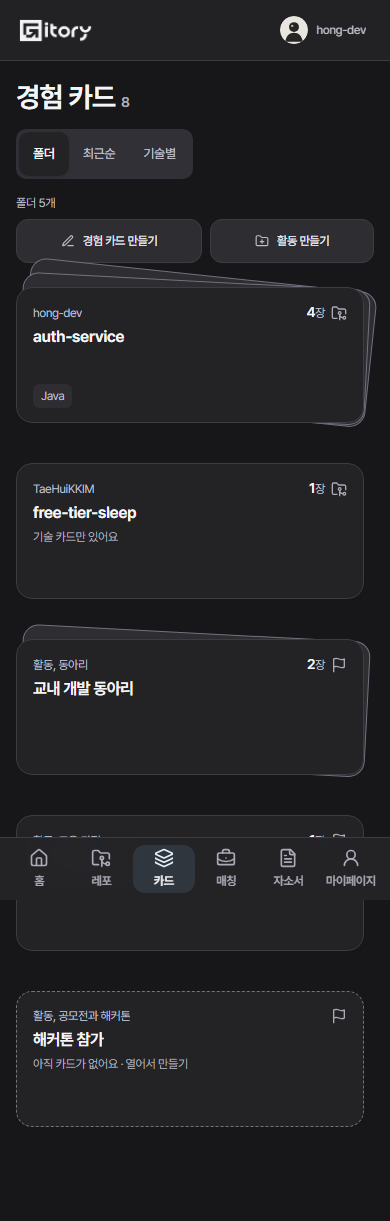
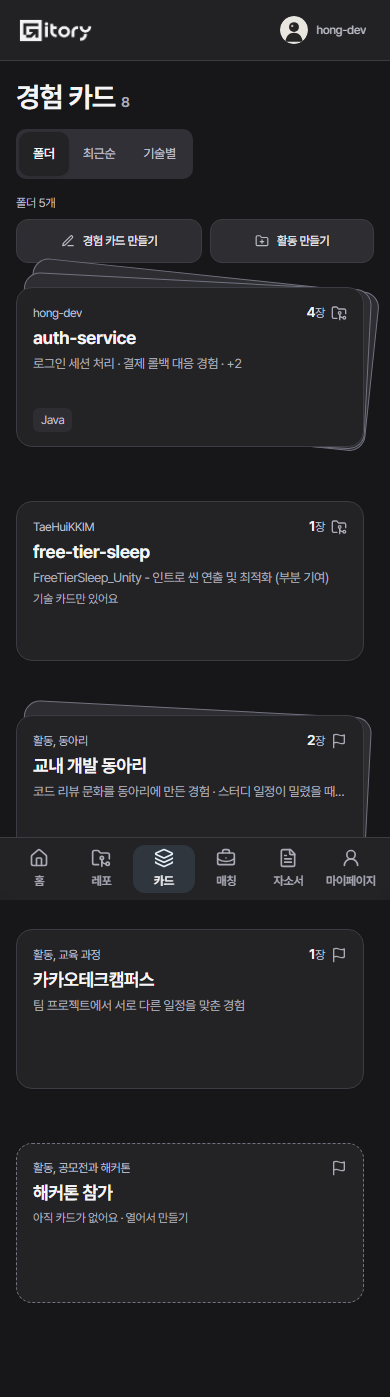
test: 폴더 격자·미리 보기 시험과 화면 사진, 설명 문서 갱신

diff --git a/frontend/src/test/card-folders-522.test.ts b/frontend/src/test/card-folders-522.test.ts
@@ -1,7 +1,7 @@
 import { describe, expect, it } from 'vitest';
 import { Activity } from '@/api/activities';
 import { CardSummary } from '@/api/schemas';
-import { buildFolders, deckLayers, folderLabel, folderNote, topTechs } from '@/lib/cardFolders';
+import { buildFolders, deckLayers, folderLabel, folderNote, folderPeek, topTechs } from '@/lib/cardFolders';
 
 const card = (id: string, over: Record<string, unknown> = {}) => CardSummary.parse({
   id, kind: 'TECH', status: 'DRAFT', title: id, versionNo: 1, areas: [], techs: [], repo: null, activity: null,
@@ -93,5 +93,15 @@ describe('경험 카드 폴더 묶기 (#522)', () => {
 describe('폴더 앞판 뒤로 겹쳐 보이는 카드 수 (#522)', () => {
   it('한 장은 겹치지 않고 둘은 한 겹, 셋 이상은 두 겹으로 멈춘다', () => {
     expect([0, 1, 2, 3, 4, 8, 100].map(deckLayers)).toEqual([0, 0, 1, 2, 2, 2, 2]);
+  });
+});
+
+describe('폴더 앞판 미리 보기 한 줄 (#758)', () => {
+  const titled = (...titles: string[]) => ({ cards: titles.map((title, i) => card(`p${i}`, { title })) });
+  it('빈 폴더는 없고, 한두 장은 제목만, 세 장 이상은 앞의 두 제목 뒤에 남은 장 수를 붙인다', () => {
+    expect(folderPeek(titled())).toBeNull();
+    expect(folderPeek(titled('로그인 세션 처리'))).toBe('로그인 세션 처리');
+    expect(folderPeek(titled('로그인 세션 처리', '결제 롤백 대응'))).toBe('로그인 세션 처리 · 결제 롤백 대응');
+    expect(folderPeek(titled('로그인 세션 처리', '결제 롤백 대응', 'c', 'd', 'e'))).toBe('로그인 세션 처리 · 결제 롤백 대응 · +3');
   });
 });

diff --git a/frontend/src/test/activities-pages-522.test.tsx b/frontend/src/test/activities-pages-522.test.tsx
@@ -57,6 +57,10 @@ describe('경험 카드 목록의 폴더 보기 (#522)', () => {
     // 장 수는 종류 아이콘 옆 작은 글이고, 빈 폴더에는 없다(0장 대신 안내 한 줄이 말한다)
     expect(auth.querySelector('.folder__head .folder__count')).toHaveTextContent(/^4장$/);
     expect(screen.getByRole('link', { name: FOLDERS.contest }).querySelector('.folder__count')).toBeNull();
+    // 이름 아래 미리 보기 한 줄: 최근 카드 두 장의 제목과 남은 장 수. 빈 폴더에는 없고, 링크 이름에도 들어가지 않는다(위 FOLDERS 그대로)
+    expect(auth.querySelector('.folder__peek')).toHaveTextContent(/^[^·]+ · [^·]+ · \+2$/);
+    expect(screen.getByRole('link', { name: FOLDERS.fts }).querySelector('.folder__peek')).toHaveTextContent(/^FreeTierSleep_Unity - 인트로 씬 연출 및 최적화 \(부분 기여\)$/);
+    expect(screen.getByRole('link', { name: FOLDERS.contest }).querySelector('.folder__peek')).toBeNull();
     expect(auth.querySelector('.folder__back')).toHaveAttribute('aria-hidden', 'true');
     // 뒤로 겹쳐 보이는 카드는 장 수를 따르고(4장 두 겹, 2장 한 겹, 1장 없음), 카드가 없는 폴더만 점선(data-empty)이다
     expect(auth).toHaveAttribute('data-deck', '2');

diff --git a/frontend/docs/2026-10-31-ACTIVITIES_AND_FOLDERS.md b/frontend/docs/2026-10-31-ACTIVITIES_AND_FOLDERS.md
@@ -20,14 +20,16 @@ BE #477(활동 API, 계약 #475 1·2절)이 머지됐는데 화면이 없었다.
 
 시안(성준 님, 이슈 댓글)을 베끼지 않고 앱의 토큰과 규칙에 맞췄다.
 
-- 한 폴더 = 링크 하나. 키보드로 열고, 접근성 이름에 소유자·이름·장 수·안내 한 줄·기술이 모두 들어간다(`folderLabel`). 뒤에 겹친 카드와 종류 아이콘은 장식이라 접근성 트리에서 뺀다.
+- 한 폴더 = 링크 하나. 키보드로 열고, 접근성 이름에 소유자·이름·장 수·안내 한 줄·기술이 들어간다(`folderLabel`). 미리 보기 줄은 폴더 안 카드 제목이라 이름에 넣지 않았다(읽어 주면 이름만 길어진다). 뒤에 겹친 카드와 종류 아이콘은 장식이라 접근성 트리에서 뺀다.
 - 모양은 부채꼴 카드 묶음이다. 맨 위 카드 한 장(경험 카드 타일과 같은 바탕·테두리·모서리)이 보이고, 뒤로 겹친 카드는 아래쪽 오른편(`transform-origin: 85% 100%`)을 축으로 3°·6° 돌아가 모서리가 위와 오른쪽으로 삐져나온다. 겹친 카드 수는 장 수를 따른다(`deckLayers`: 1장은 겹침 없음, 2장은 한 겹 3°, 3장 이상은 두 겹 3°·6°). 카드가 한 장도 없는 폴더(활동만)는 점선 테두리다. 첫 줄 오른쪽 작은 아이콘이 레포(`FolderGit2`), 활동(`Flag`), 직접 쓴 카드(`PenLine`)를 가른다.
 - 겹친 카드가 삐져나올 자리(위 10px, 오른쪽 10px, 아래 8px)는 겹침이 없는 폴더에도 똑같이 비워 둔다. 장 수에 따라 맨 위 카드 크기가 달라지면 한 줄의 폴더 높이가 들쭉날쭉해진다.
 - 색은 토큰만. 맨 위 카드 `--bg-surface` + `--border-default`, 뒤에 겹친 카드 `--bg-subtle` + `--border-strong`. 올리거나 키보드로 닿으면 모든 카드 테두리가 `--border-selected`로 바뀌고, 부채꼴이 4°·7°로 조금 더 벌어진다(0.15초, 움직임 줄이기 설정이면 바로). 폴더 자체의 자리와 크기는 그대로다. 다크 모드는 같은 토큰이고, 폴더는 모두 같은 색 하나다.
-- 첫 줄은 레포면 소유자, 활동이면 `활동, 종류`. 이름은 두 줄까지.
+- 첫 줄은 레포면 소유자, 활동이면 `활동, 종류`. 이름은 18px, 두 줄까지. 맨 위 카드는 높이 160px 부터다.
+- 이름 바로 아래 작은 회색 한 줄(`folderPeek`, 13px)이 폴더 안 최근 카드 두 장의 제목을 보여 준다. 더 있으면 남은 장 수를 붙이고(`로그인 세션 처리 · 결제 롤백 대응 경험 · +2`), 넘치면 말줄임표로 자른다. 빈 폴더에는 없다(#758).
 - 장 수는 첫 줄 오른쪽 종류 아이콘 옆에 작게(`4장`) 적는다. 서버가 준 카드를 센 전체 장 수다(기술 카드와 경험 카드 합). 겹침이 이미 많고 적음을 보여 주므로, 숫자가 이름보다 먼저 보이지 않게 작게 두었다. 카드가 한 장도 없는 폴더에는 적지 않는다. 아래는 가장 많은 카드에 붙은 기술 둘이고, 카드에 태그가 없으면 비어 있다(지어내지 않는다).
-- 이름 아래 안내 한 줄(`folderNote`)은 둘뿐이다. 카드가 한 장도 없는 폴더는 `아직 카드가 없어요 · 열어서 만들기`, 정성 카드(경험 카드)가 한 장도 없는 레포·활동 폴더는 `기술 카드만 있어요`. 둘 다 아니면 적지 않는다. 시안에서도 `2장`이면서 경험 카드가 없는 레포가 있어, 이 글은 "전체 0장"이 아니라 "경험 카드를 더 쓸 곳"이라는 뜻으로 읽었다.
-- 격자는 `repeat(auto-fill, minmax(min(300px, 100%), 1fr))`. 1440에서는 3열, 390과 320에서는 한 줄에 폴더 하나. 타일이 커야 이름이 주인공이 되고 부채꼴 겹침이 어지럽지 않다.
+- 미리 보기 아래 안내 한 줄(`folderNote`)은 둘뿐이다. 카드가 한 장도 없는 폴더는 `아직 카드가 없어요 · 열어서 만들기`, 정성 카드(경험 카드)가 한 장도 없는 레포·활동 폴더는 `기술 카드만 있어요`. 둘 다 아니면 적지 않는다. 시안에서도 `2장`이면서 경험 카드가 없는 레포가 있어, 이 글은 "전체 0장"이 아니라 "경험 카드를 더 쓸 곳"이라는 뜻으로 읽었다.
+- 격자는 `repeat(auto-fill, minmax(min(340px, 100%), 1fr))`에 `max-width: 1200px`, 줄 간격 36px·칸 간격 20px. 한 줄에 셋까지다(1440은 365px 셋, 1920 이상도 격자가 1,200px 에서 멈춰 387px 셋이고 왼쪽에 붙는다). 중간 폭은 둘, 390과 320은 하나. 타일이 커야 이름이 주인공이 되고 부채꼴 겹침이 어지럽지 않다(#758).
+- 줄 간격 36px 은 부채꼴 높이에 맞췄다. 뒤 카드는 맨 위 카드 폭의 0.85 × sin(각도)만큼 솟고 위 여백 10px 이 그만큼을 덜어 준다. 390px 폭이면 쉴 때 약 24px, 올렸을 때 약 30px 이라 36px 안에 든다. E2E 가 1440에서 올린 뒤 뒤 카드 꼭짓점이 윗줄이 끝나는 선보다 아래인지 잰다.
 - 후보 보드 버튼은 앞판에서 폴더 안으로 옮겼다. 활동 폴더에는 없다(레포만).
 
 ## 판단
